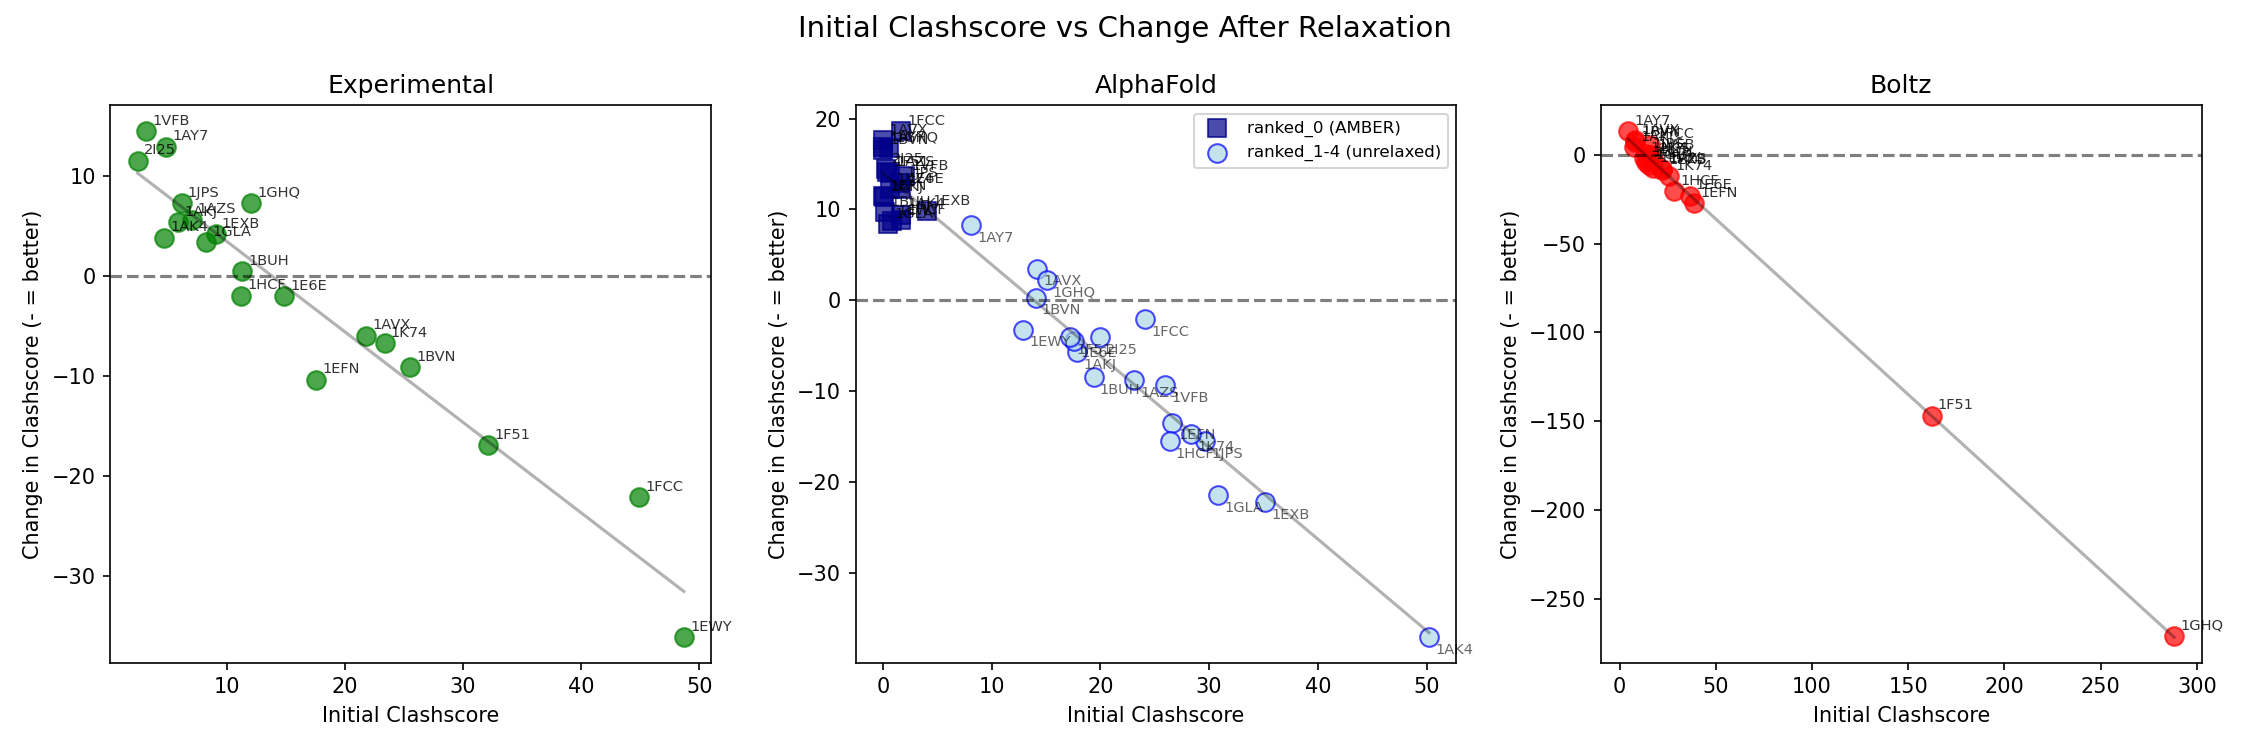
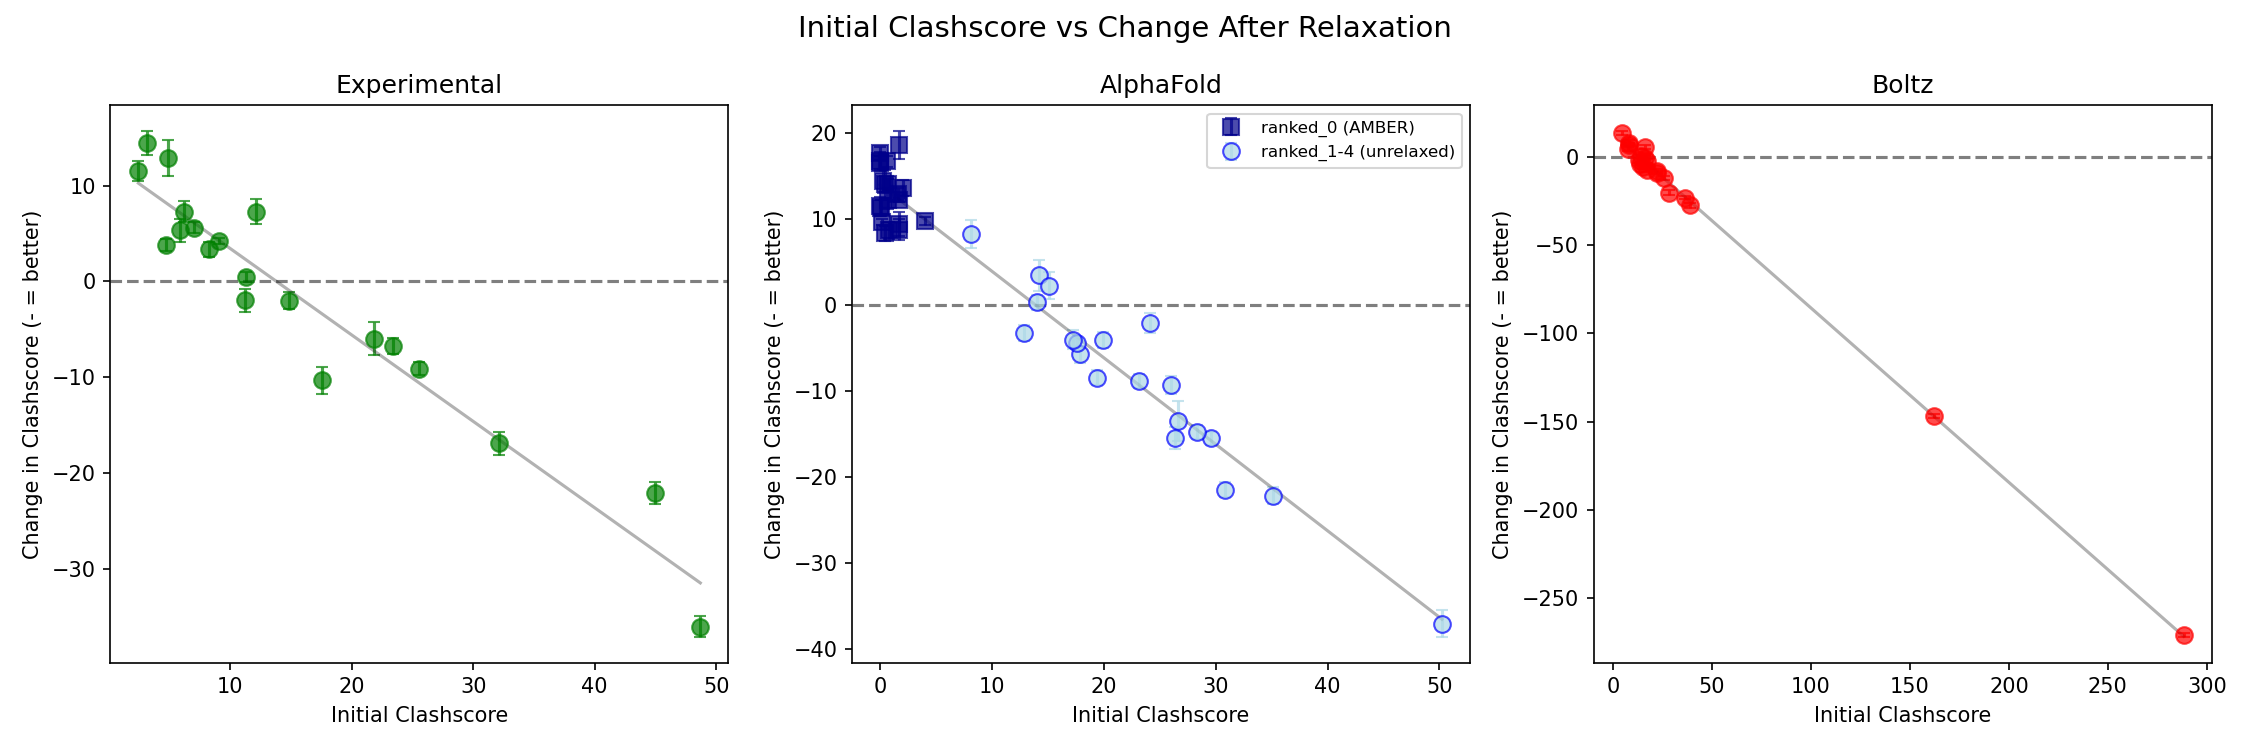
Replace labels with SD error bars in correlation figure

diff --git a/scripts/clashscore_correlation.py b/scripts/clashscore_correlation.py
@@ -23,7 +23,9 @@ for category in ['Experimental', 'AlphaFold', 'Boltz']:
         relaxed = cat_df[cat_df['subcategory'] == 'relaxed_normal_beta']
         for protein in baseline['protein'].unique():
             base_clash = baseline[baseline['protein'] == protein]['clashscore'].mean()
-            rel_clash = relaxed[relaxed['protein'] == protein]['clashscore'].mean()
+            rel_data = relaxed[relaxed['protein'] == protein]['clashscore']
+            rel_clash = rel_data.mean()
+            rel_std = rel_data.std()
             if pd.notna(base_clash) and pd.notna(rel_clash):
                 data.append({
                     'protein': protein,
@@ -31,7 +33,9 @@ for category in ['Experimental', 'AlphaFold', 'Boltz']:
                     'af_type': None,
                     'initial_clashscore': base_clash,
                     'final_clashscore': rel_clash,
+                    'final_std': rel_std,
                     'change': rel_clash - base_clash,
+                    'change_std': rel_std,
                     'improved': rel_clash < base_clash
                 })
     elif category == 'AlphaFold':
@@ -43,26 +47,32 @@ for category in ['Experimental', 'AlphaFold', 'Boltz']:
             base_r0 = baseline[(baseline['protein'] == protein) & (baseline['model'] == 'ranked_0')]
             rel_r0 = relaxed[(relaxed['protein'] == protein) & (relaxed['model'].str.startswith('ranked_0'))]
             if len(base_r0) and len(rel_r0):
+                rel_std = rel_r0['clashscore'].std()
                 data.append({
                     'protein': protein,
                     'category': category,
                     'af_type': 'ranked_0 (AMBER)',
                     'initial_clashscore': base_r0['clashscore'].mean(),
                     'final_clashscore': rel_r0['clashscore'].mean(),
+                    'final_std': rel_std,
                     'change': rel_r0['clashscore'].mean() - base_r0['clashscore'].mean(),
+                    'change_std': rel_std,
                     'improved': rel_r0['clashscore'].mean() < base_r0['clashscore'].mean()
                 })
             # ranked_1-4 = unrelaxed
             base_rest = baseline[(baseline['protein'] == protein) & (~baseline['model'].isin(['ranked_0']))]
             rel_rest = relaxed[(relaxed['protein'] == protein) & (~relaxed['model'].str.startswith('ranked_0'))]
             if len(base_rest) and len(rel_rest):
+                rel_std = rel_rest['clashscore'].std()
                 data.append({
                     'protein': protein,
                     'category': category,
                     'af_type': 'ranked_1-4 (unrelaxed)',
                     'initial_clashscore': base_rest['clashscore'].mean(),
                     'final_clashscore': rel_rest['clashscore'].mean(),
+                    'final_std': rel_std,
                     'change': rel_rest['clashscore'].mean() - base_rest['clashscore'].mean(),
+                    'change_std': rel_std,
                     'improved': rel_rest['clashscore'].mean() < base_rest['clashscore'].mean()
                 })
     else:  # Boltz
@@ -70,7 +80,9 @@ for category in ['Experimental', 'AlphaFold', 'Boltz']:
         relaxed = cat_df[cat_df['subcategory'] == 'relaxed_normal_beta']
         for protein in baseline['protein'].unique():
             base_clash = baseline[baseline['protein'] == protein]['clashscore'].mean()
-            rel_clash = relaxed[relaxed['protein'] == protein]['clashscore'].mean()
+            rel_data = relaxed[relaxed['protein'] == protein]['clashscore']
+            rel_clash = rel_data.mean()
+            rel_std = rel_data.std()
             if pd.notna(base_clash) and pd.notna(rel_clash):
                 data.append({
                     'protein': protein,
@@ -78,7 +90,9 @@ for category in ['Experimental', 'AlphaFold', 'Boltz']:
                     'af_type': None,
                     'initial_clashscore': base_clash,
                     'final_clashscore': rel_clash,
+                    'final_std': rel_std,
                     'change': rel_clash - base_clash,
+                    'change_std': rel_std,
                     'improved': rel_clash < base_clash
                 })
 
@@ -129,29 +143,19 @@ for i, cat in enumerate(['Experimental', 'AlphaFold', 'Boltz']):
         r0_data = cat_data[cat_data['af_type'] == 'ranked_0 (AMBER)']
         rest_data = cat_data[cat_data['af_type'] == 'ranked_1-4 (unrelaxed)']
 
-        ax.scatter(r0_data['initial_clashscore'], r0_data['change'],
-                   c='darkblue', alpha=0.7, s=80, label='ranked_0 (AMBER)', marker='s')
-        ax.scatter(rest_data['initial_clashscore'], rest_data['change'],
-                   c='lightblue', alpha=0.7, s=80, label='ranked_1-4 (unrelaxed)', marker='o',
-                   edgecolors='blue')
-
-        # Label ranked_0 points
-        for _, row in r0_data.iterrows():
-            ax.annotate(row['protein'], (row['initial_clashscore'], row['change']),
-                        fontsize=7, alpha=0.8, xytext=(3, 3), textcoords='offset points')
-        # Label ranked_1-4 points
-        for _, row in rest_data.iterrows():
-            ax.annotate(row['protein'], (row['initial_clashscore'], row['change']),
-                        fontsize=7, alpha=0.6, xytext=(3, -8), textcoords='offset points')
+        ax.errorbar(r0_data['initial_clashscore'], r0_data['change'],
+                    yerr=r0_data['change_std'], fmt='s', c='darkblue', alpha=0.7,
+                    markersize=8, label='ranked_0 (AMBER)', capsize=3)
+        ax.errorbar(rest_data['initial_clashscore'], rest_data['change'],
+                    yerr=rest_data['change_std'], fmt='o', c='lightblue', alpha=0.7,
+                    markersize=8, label='ranked_1-4 (unrelaxed)', capsize=3,
+                    markeredgecolor='blue')
 
         ax.legend(loc='upper right', fontsize=8)
     else:
-        ax.scatter(cat_data['initial_clashscore'], cat_data['change'],
-                   c=colors[cat], alpha=0.7, s=80)
-        # Label ALL points
-        for _, row in cat_data.iterrows():
-            ax.annotate(row['protein'], (row['initial_clashscore'], row['change']),
-                        fontsize=7, alpha=0.8, xytext=(3, 3), textcoords='offset points')
+        ax.errorbar(cat_data['initial_clashscore'], cat_data['change'],
+                    yerr=cat_data['change_std'], fmt='o', c=colors[cat], alpha=0.7,
+                    markersize=8, capsize=3)
 
     ax.axhline(0, color='black', linestyle='--', alpha=0.5)
     ax.set_xlabel('Initial Clashscore')
